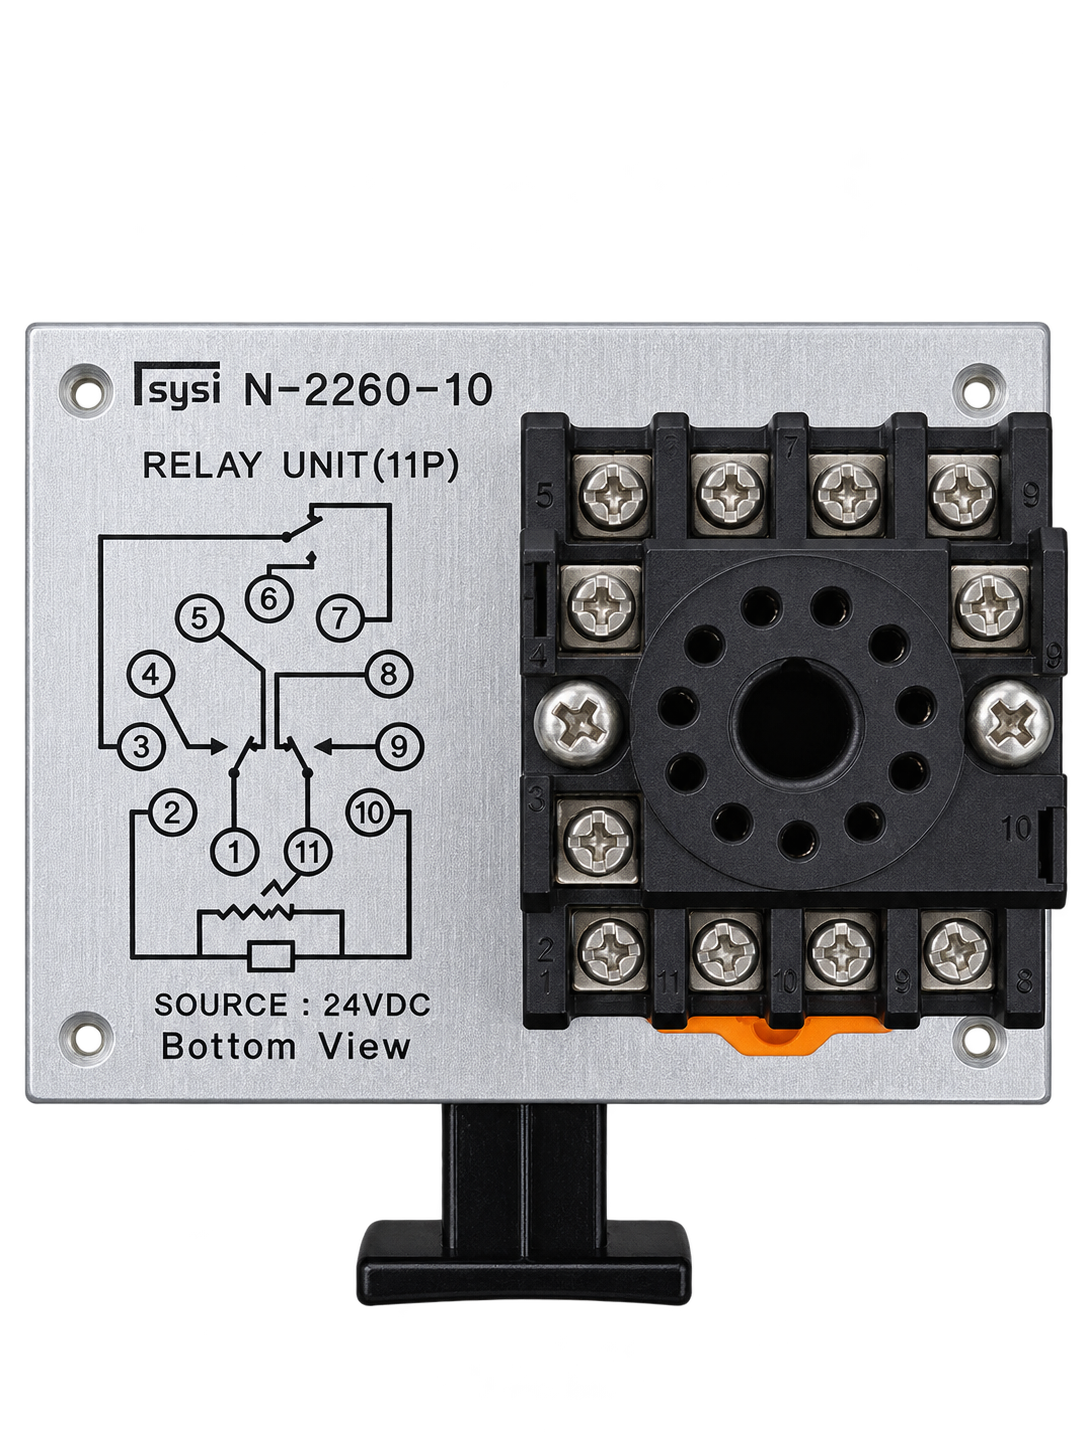
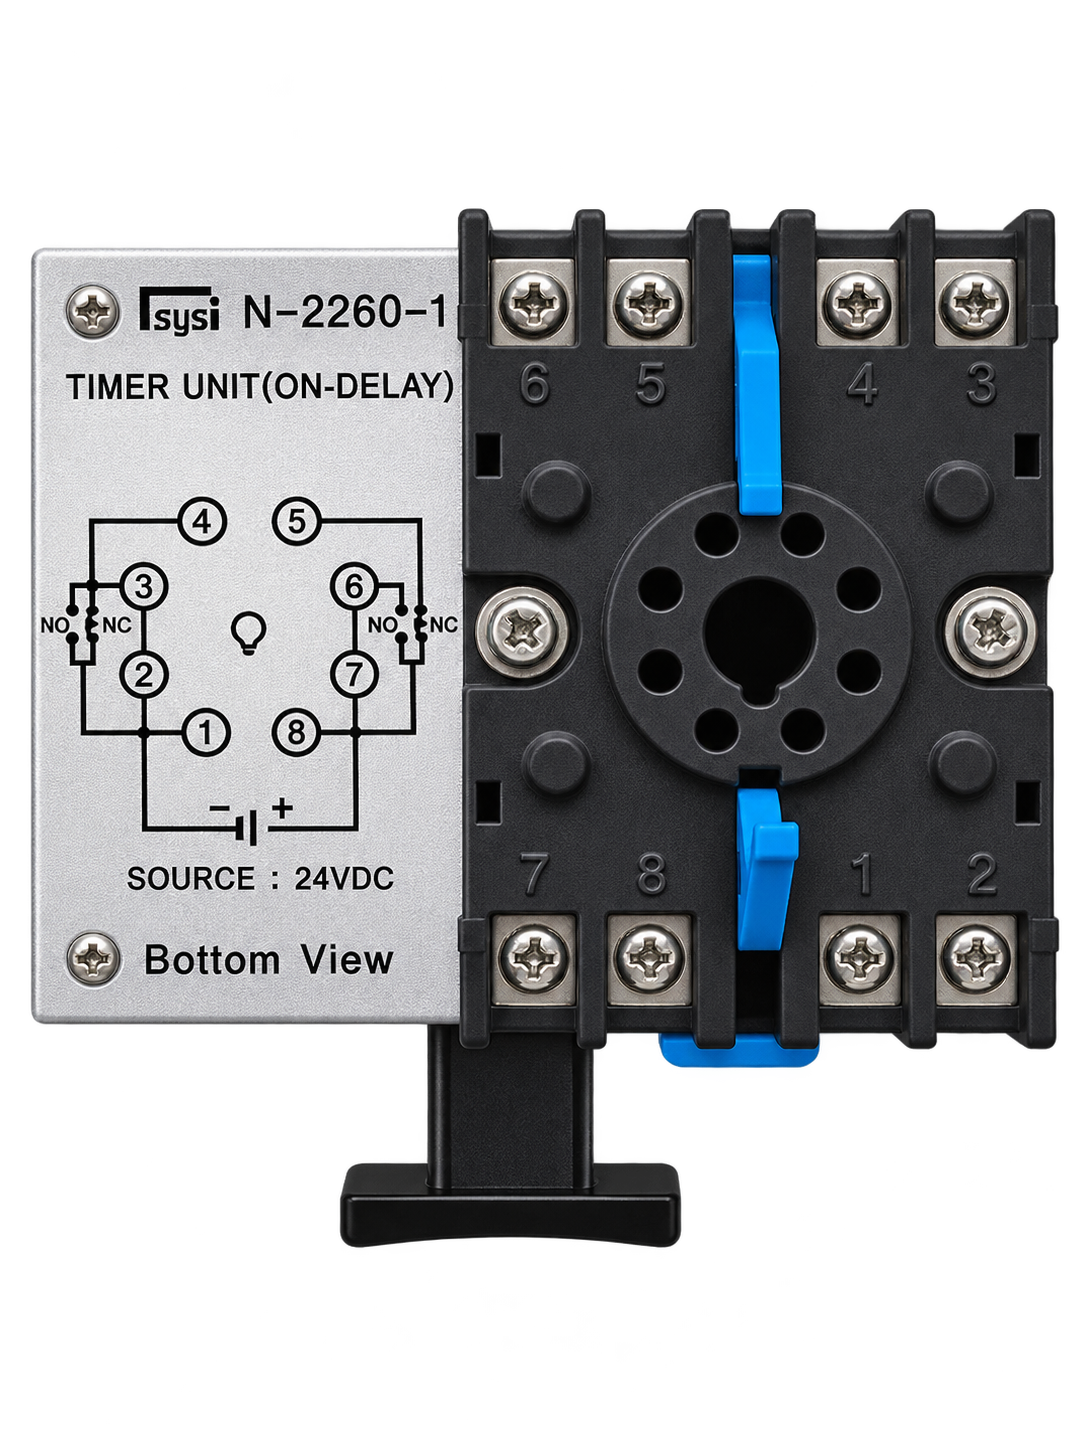
Replace RelayTimer with the correct on-delay socket photo

diff --git a/src/config/assets.ts b/src/config/assets.ts
@@ -83,9 +83,9 @@ export const componentAssets: Record<AssetId, ComponentAsset> = {
   'relay-unit-11p': {
     id: 'relay-unit-11p',
     mode: 'sequence',
-    label: '11핀 릴레이 유닛',
-    model: 'Sysi N-2260-10 · 11P',
-    description: '11핀 소켓의 외형과 인쇄된 결선도를 볼 수 있는 배치용 부품입니다.',
+    label: '8핀 온딜레이 타이머 유닛',
+    model: 'Sysi · TIMER UNIT (ON-DELAY)',
+    description: '8핀 온딜레이 타이머 소켓의 외형과 인쇄된 결선도를 볼 수 있는 배치용 부품입니다.',
     ...image('RelayTimer.png'),
     size: { width: 192, height: 256 },
     category: 'control',

diff --git a/index.html b/index.html
@@ -28,7 +28,7 @@
       content="한국폴리텍대학 소프트웨어융합과 IoT 전기·전자 회로 실습: 실제 장비 PNG로 배우는 시퀀스 제어 및 디지털 회로 작업대"
     />
     <title>Circuit Lab · 전자공학 실습실</title>
-    <script type="module" crossorigin src="./dist/assets/app-DNFNuB45.js"></script>
+    <script type="module" crossorigin src="./dist/assets/app-B2DoUGdw.js"></script>
     <link rel="stylesheet" crossorigin href="./dist/assets/app-B8ZHrmjB.css">
   </head>
   <body>

diff --git a/src/legacy/svg/devices/definitions.ts b/src/legacy/svg/devices/definitions.ts
@@ -132,7 +132,7 @@ export const deviceDefinitions: Record<AssetId, ComponentDefinition> = {
     ['sequence'],
   ),
   // Reserved here because AssetId is shared with the photo workbench.
-  'relay-unit-11p': device('relay-unit-11p', '11핀 릴레이 유닛', 'N-2260-10', 192, 256, 'control', []),
+  'relay-unit-11p': device('relay-unit-11p', '8핀 온딜레이 타이머 유닛', 'TIMER UNIT (ON-DELAY)', 192, 256, 'control', []),
   'timer-at8n': device(
     'timer-at8n',
     '타이머 릴레이',

diff --git a/src/config/sequencePins.ts b/src/config/sequencePins.ts
@@ -137,7 +137,7 @@ export const sequencePins = {
       },
     ],
   },
-  // The bare 11-pin socket is available as a board placement reference.
+  // This asset retains its original ID so previously saved placements load.
   'relay-unit-11p': { pins: [], controls: [], overlays: [] },
   // Front PNG has no rear pins: these are explicitly shown as a rear-socket strip.
   'timer-at8n': {
